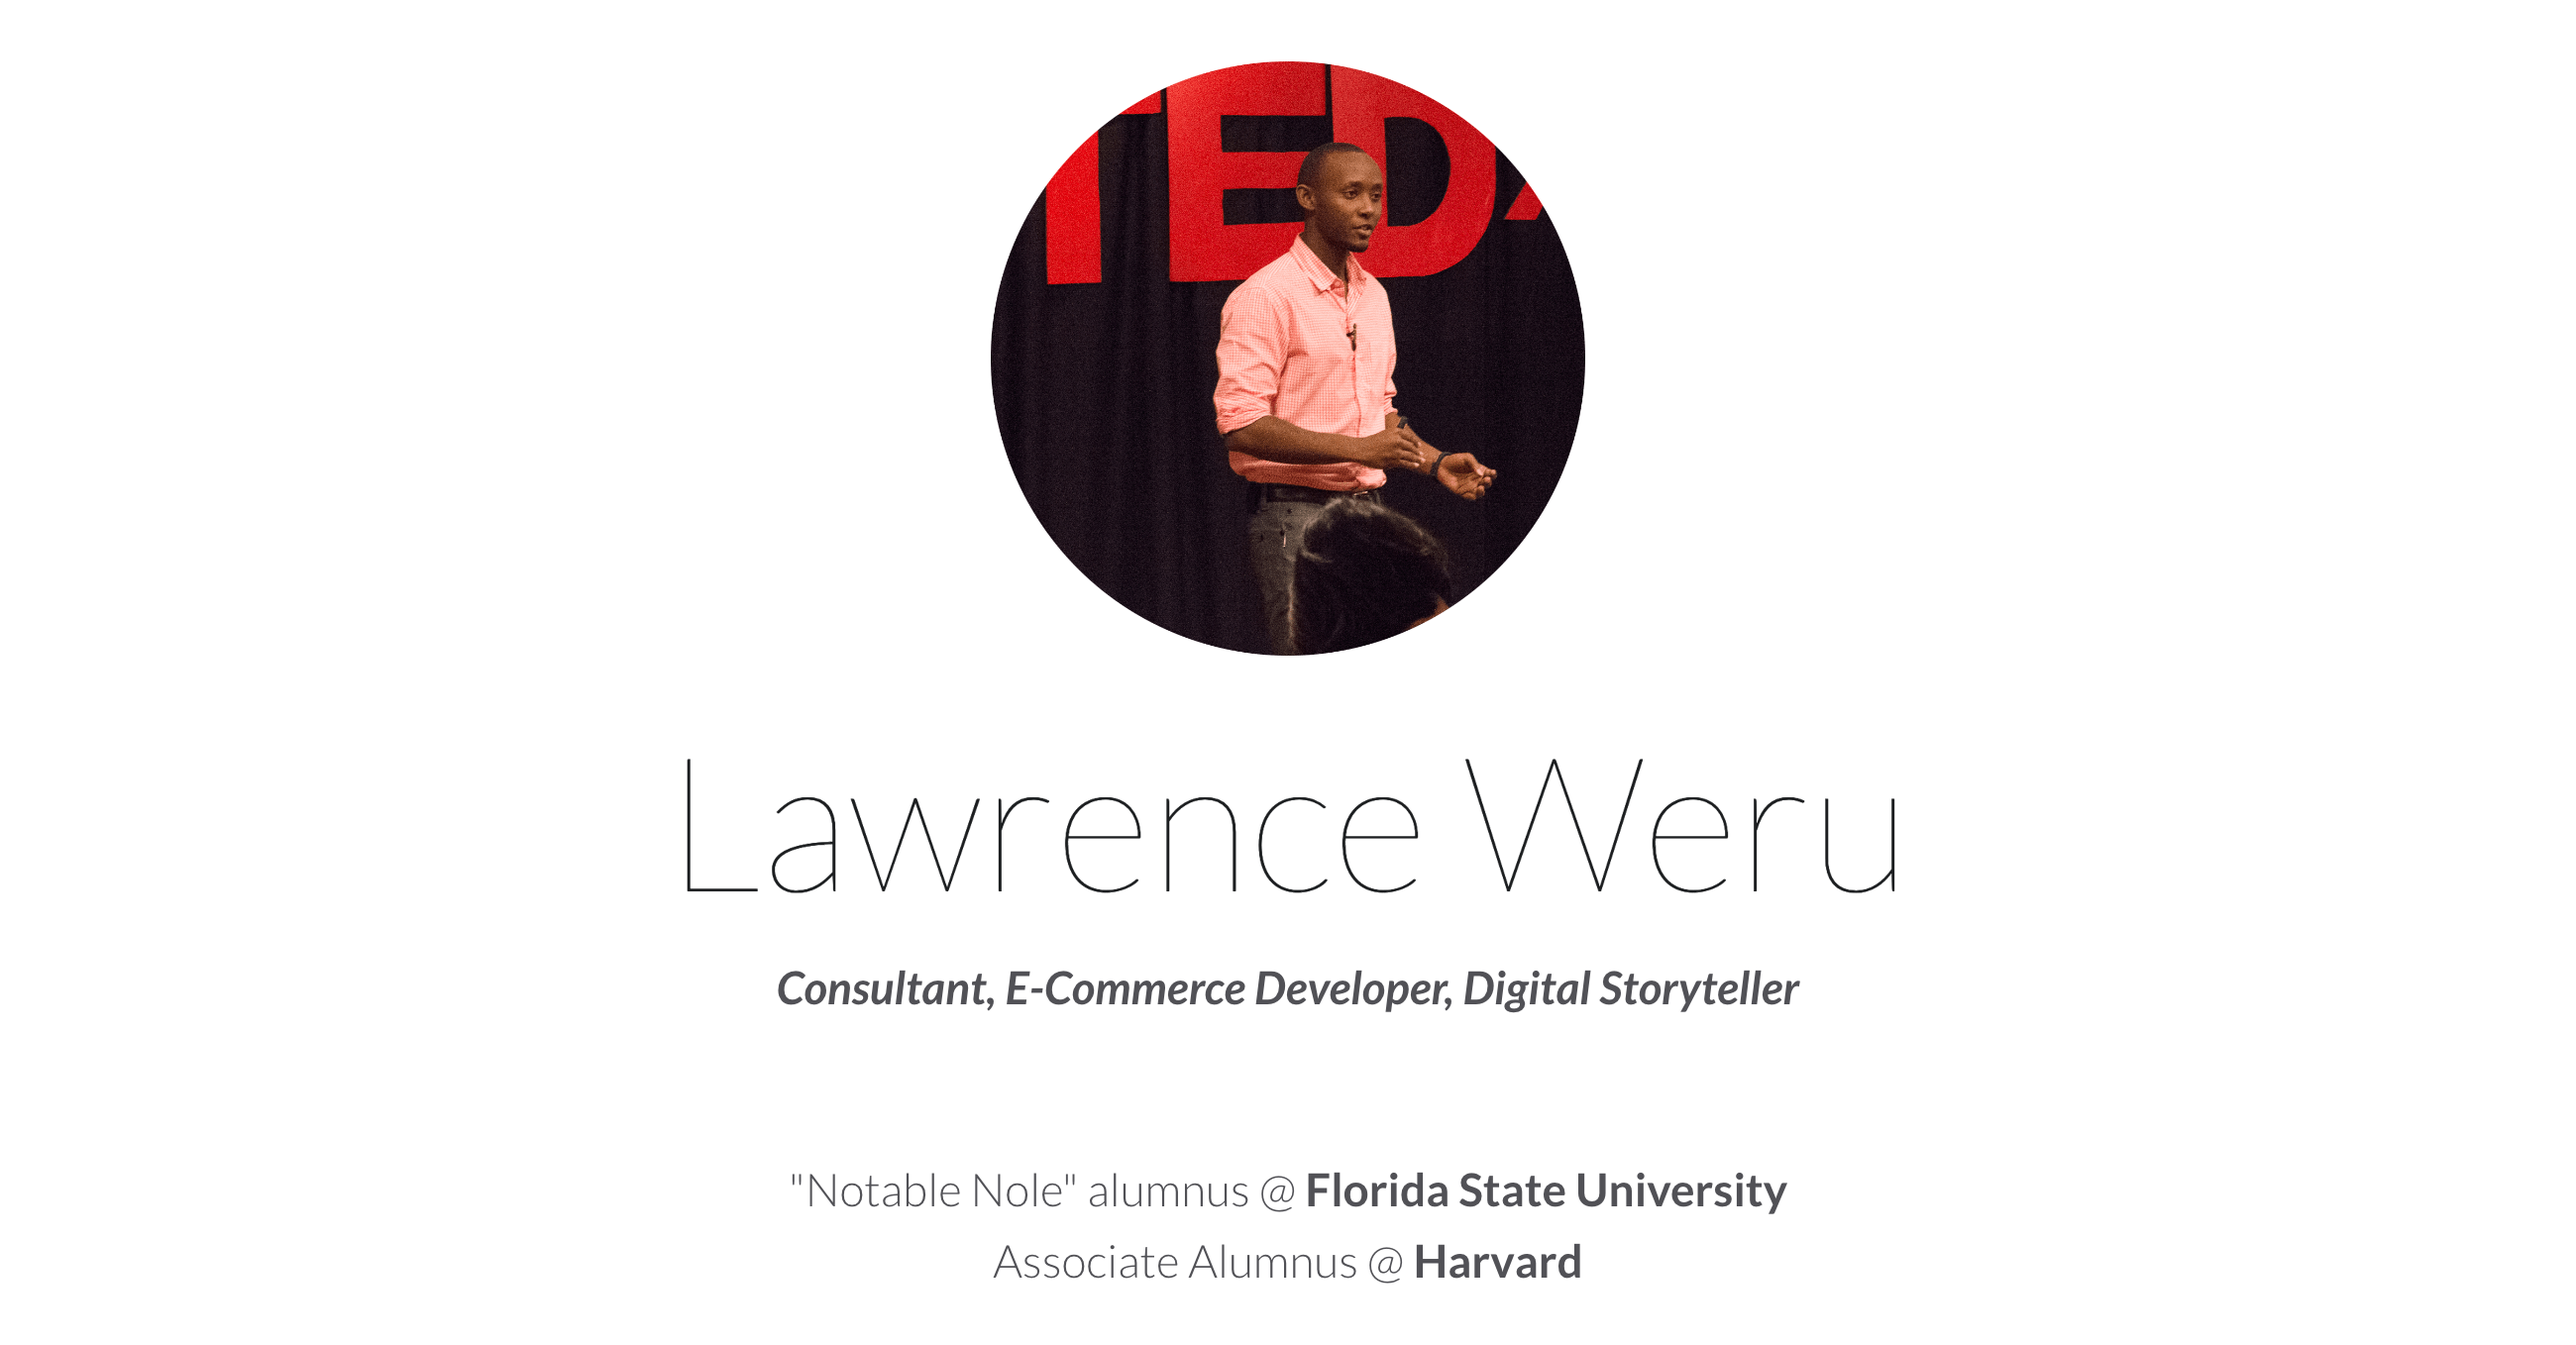
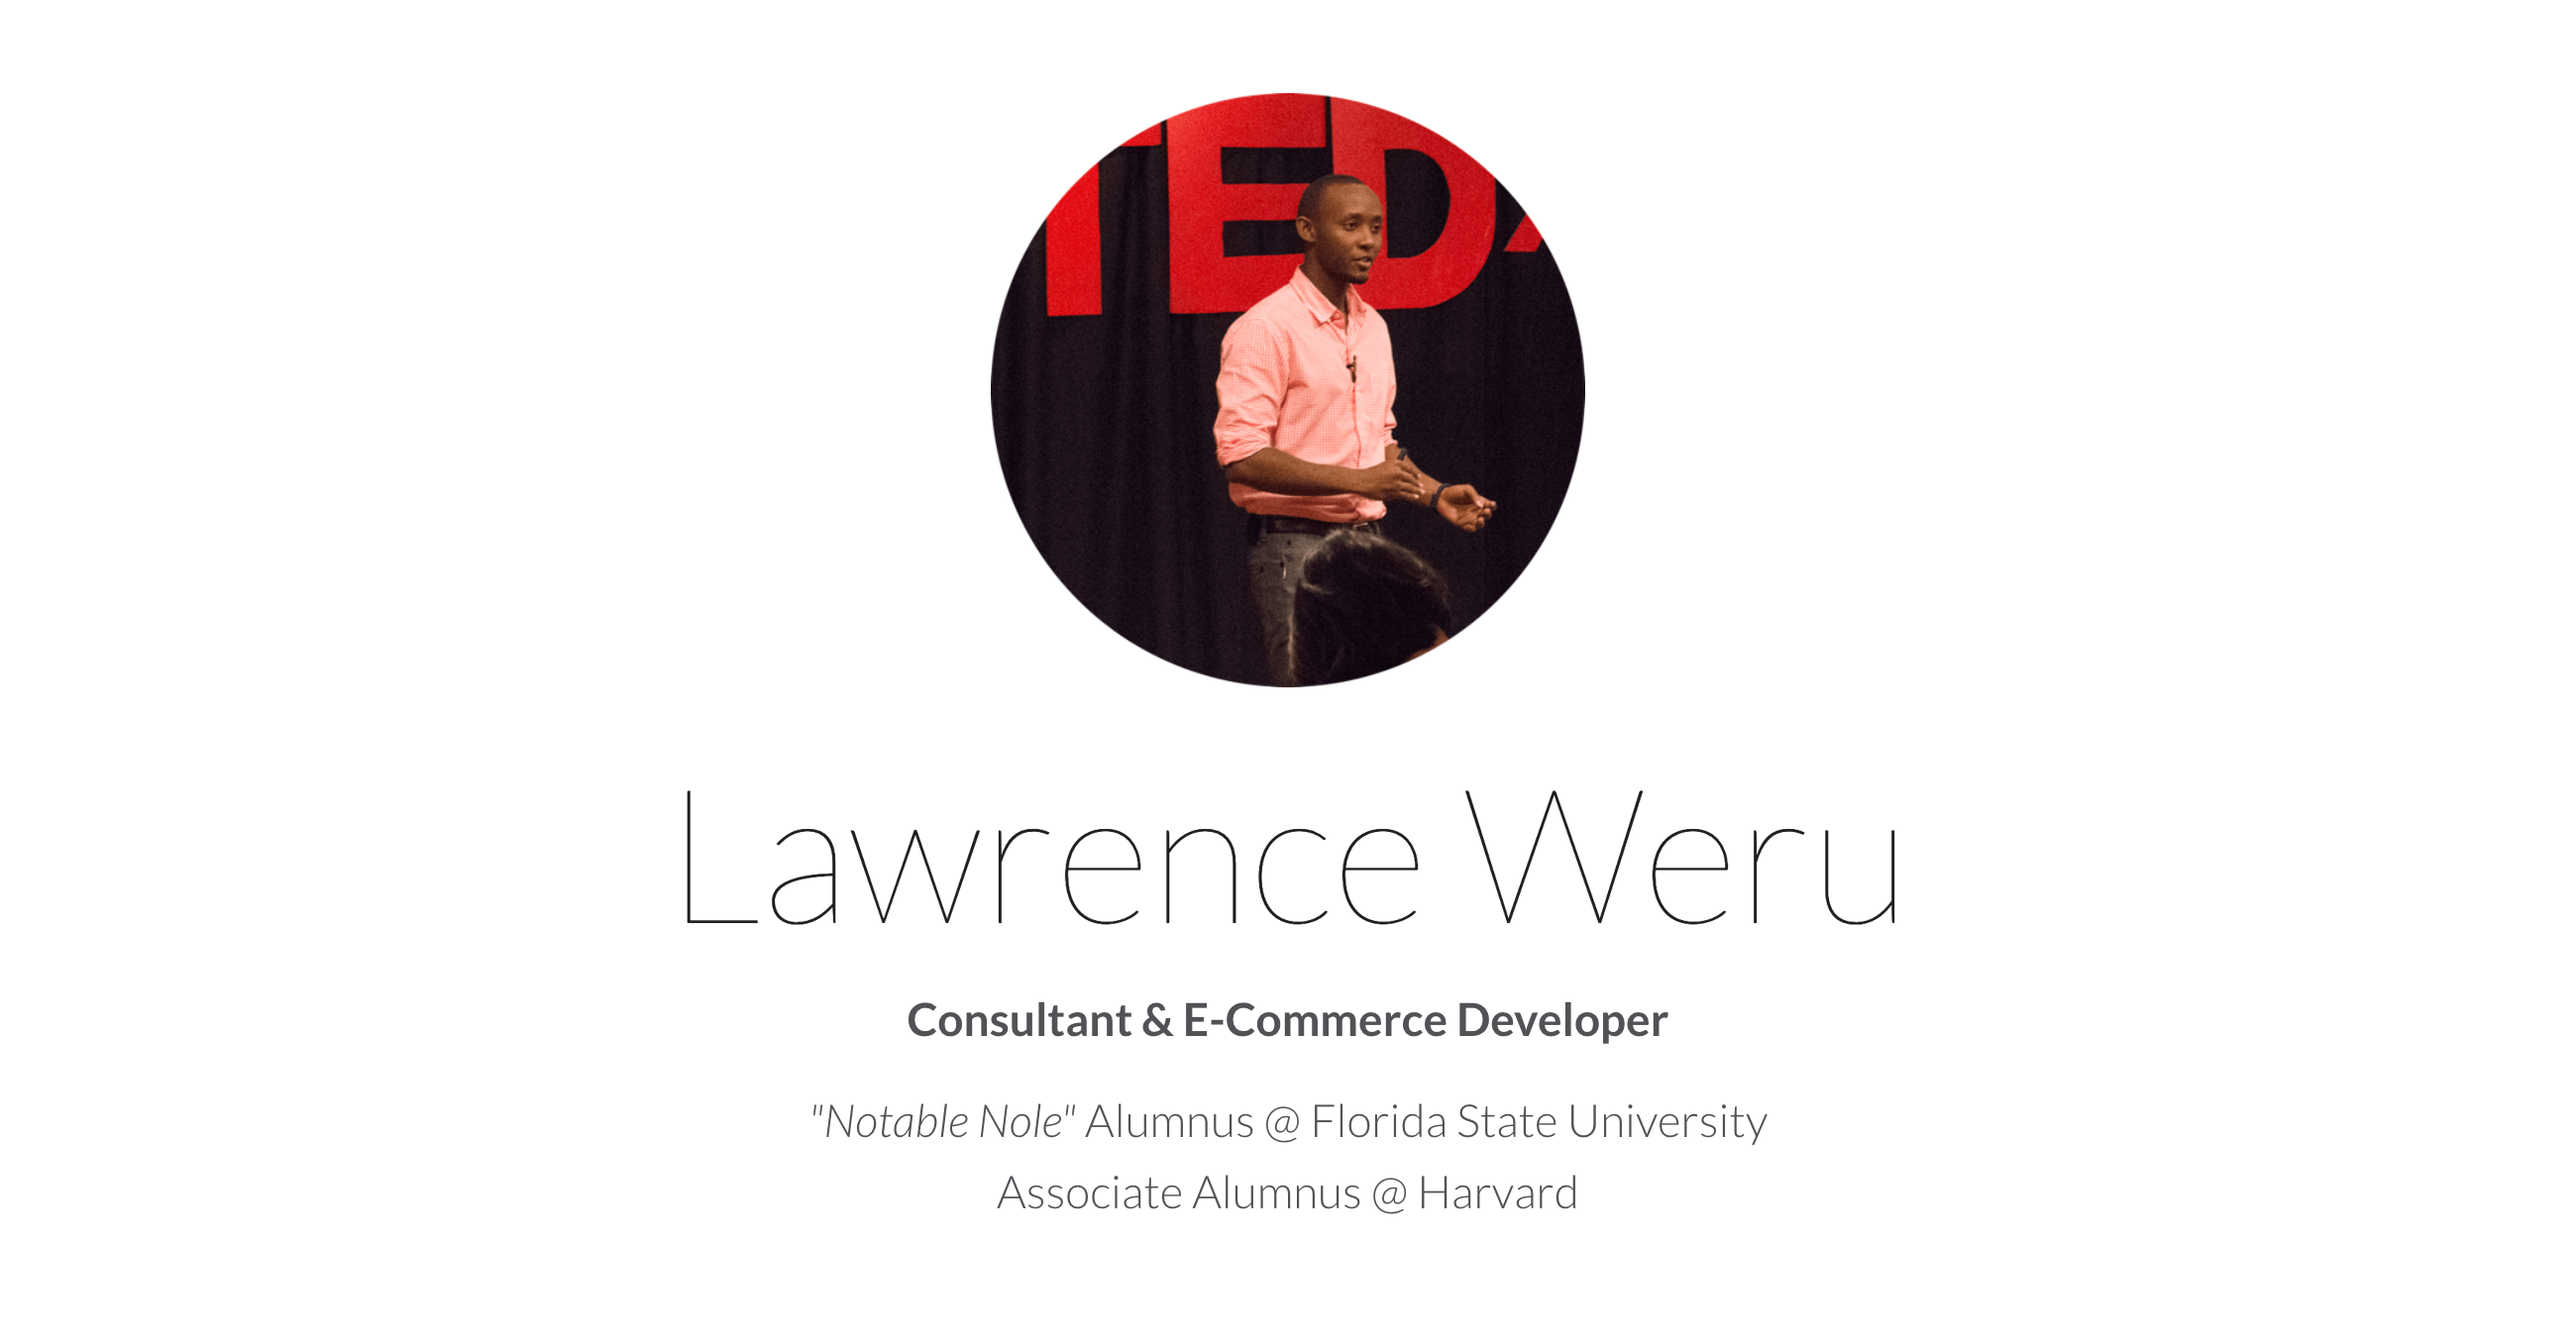
new og_image

diff --git a/index.html b/index.html
@@ -72,7 +72,7 @@
                             <img src="img/lweru_tedx_circle_adjusted.png" class="img-responsive center-block mg-md animated swing" width="300">
                             <h1 class="text-center mg-sm tc-dark-jungle-green">Lawrence Weru</h1>
                             <!-- <p class="text-center"><br></p> -->
-                            <p class="text-center"><strong>E-Commerce Consultant</strong></p>
+                            <p class="text-center"><strong>Consultant &amp; E-Commerce Developer</strong></p>
                             <!-- <p class="text-center"><br></p> -->
                             <p class="text-center"><!-- <i>TEDx</i> Speaker <br>  --> <i>"Notable Nole"</i> Alumnus @ Florida&nbsp;State&nbsp;University <br> Associate Alumnus @ Harvard<br> <!-- ✍🏾 Freelance Contributor to <b>Slate</b>, <b>Vox</b>, <b>Orlando&nbsp;Sentinel</b>, <b>Vancouver&nbsp;Sun</b>, <b>KevinMD </b><br> --></p>
                             <!-- <p class="text-center"><br></p>
